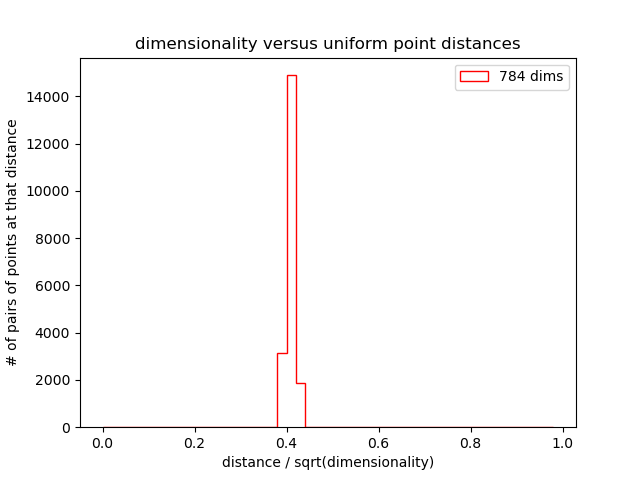
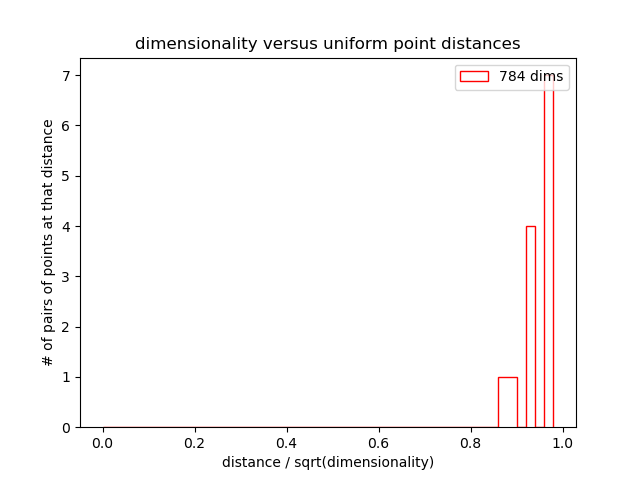
WU5A done?

diff --git a/HighD.py b/HighD.py
@@ -31,7 +31,7 @@ def computeDistances(data):
     return dist
 if __name__ == "__main__":
     N    = 200                   # number of examples
-    Dims = [784] #[2, 8, 32, 128, 512]   # dimensionalities to try
+    Dims = [784] #[2, 8, 32, 128, 512]   # dimensionalities to try 784
     Cols = ['#FF0000', '#880000', '#000000', '#000088', '#0000FF']
     Bins = arange(0, 1, 0.02)
 
@@ -40,7 +40,7 @@ if __name__ == "__main__":
     plt.title('dimensionality versus uniform point distances')
 
     for i,d in enumerate(Dims):
-        distances = computeDistances(datasets.DigitData)
+        distances = computeDistances(datasets.loadDigitData('data/1vs2.all'))
         print ("D=%d, average distance=%g" % (d, mean(distances) * sqrt(d)))
         plt.hist(distances,
                  Bins,

diff --git a/writeup.md b/writeup.md
@@ -39,6 +39,7 @@ Knn exbits similiar patter as Epsilon NN: when K = 6, the model heavily overfitt
 ![K=10](graph_output/knn_5.png)
 #### WU5: 
 - ##### A. First, get a histogram of the raw digits data in 784 dimensions. You'll probably want to use the computeDistances function together with the plotting in HighD. 
+  ![D=784](graph_output/histogramA.png)
 - ##### B. Rewrite computeDistances so that it can subsample features down to some fixed dimensionality. For example, you might write computeDistancesSubdims(data, d), where d is the target dimensionality. In this function, you should pick d dimensions at random (I would suggest generating a permutation of the number [1..784] and then taking the first d of them), and then compute the distance but only looking at those dimensions. 
 - ##### C. Generate an equivalent plot to HighD with d in [2, 8, 32, 128, 512] but for the digits data rather than the random data. Include a copy of both plots and describe the differences.
 #### WU6: 
